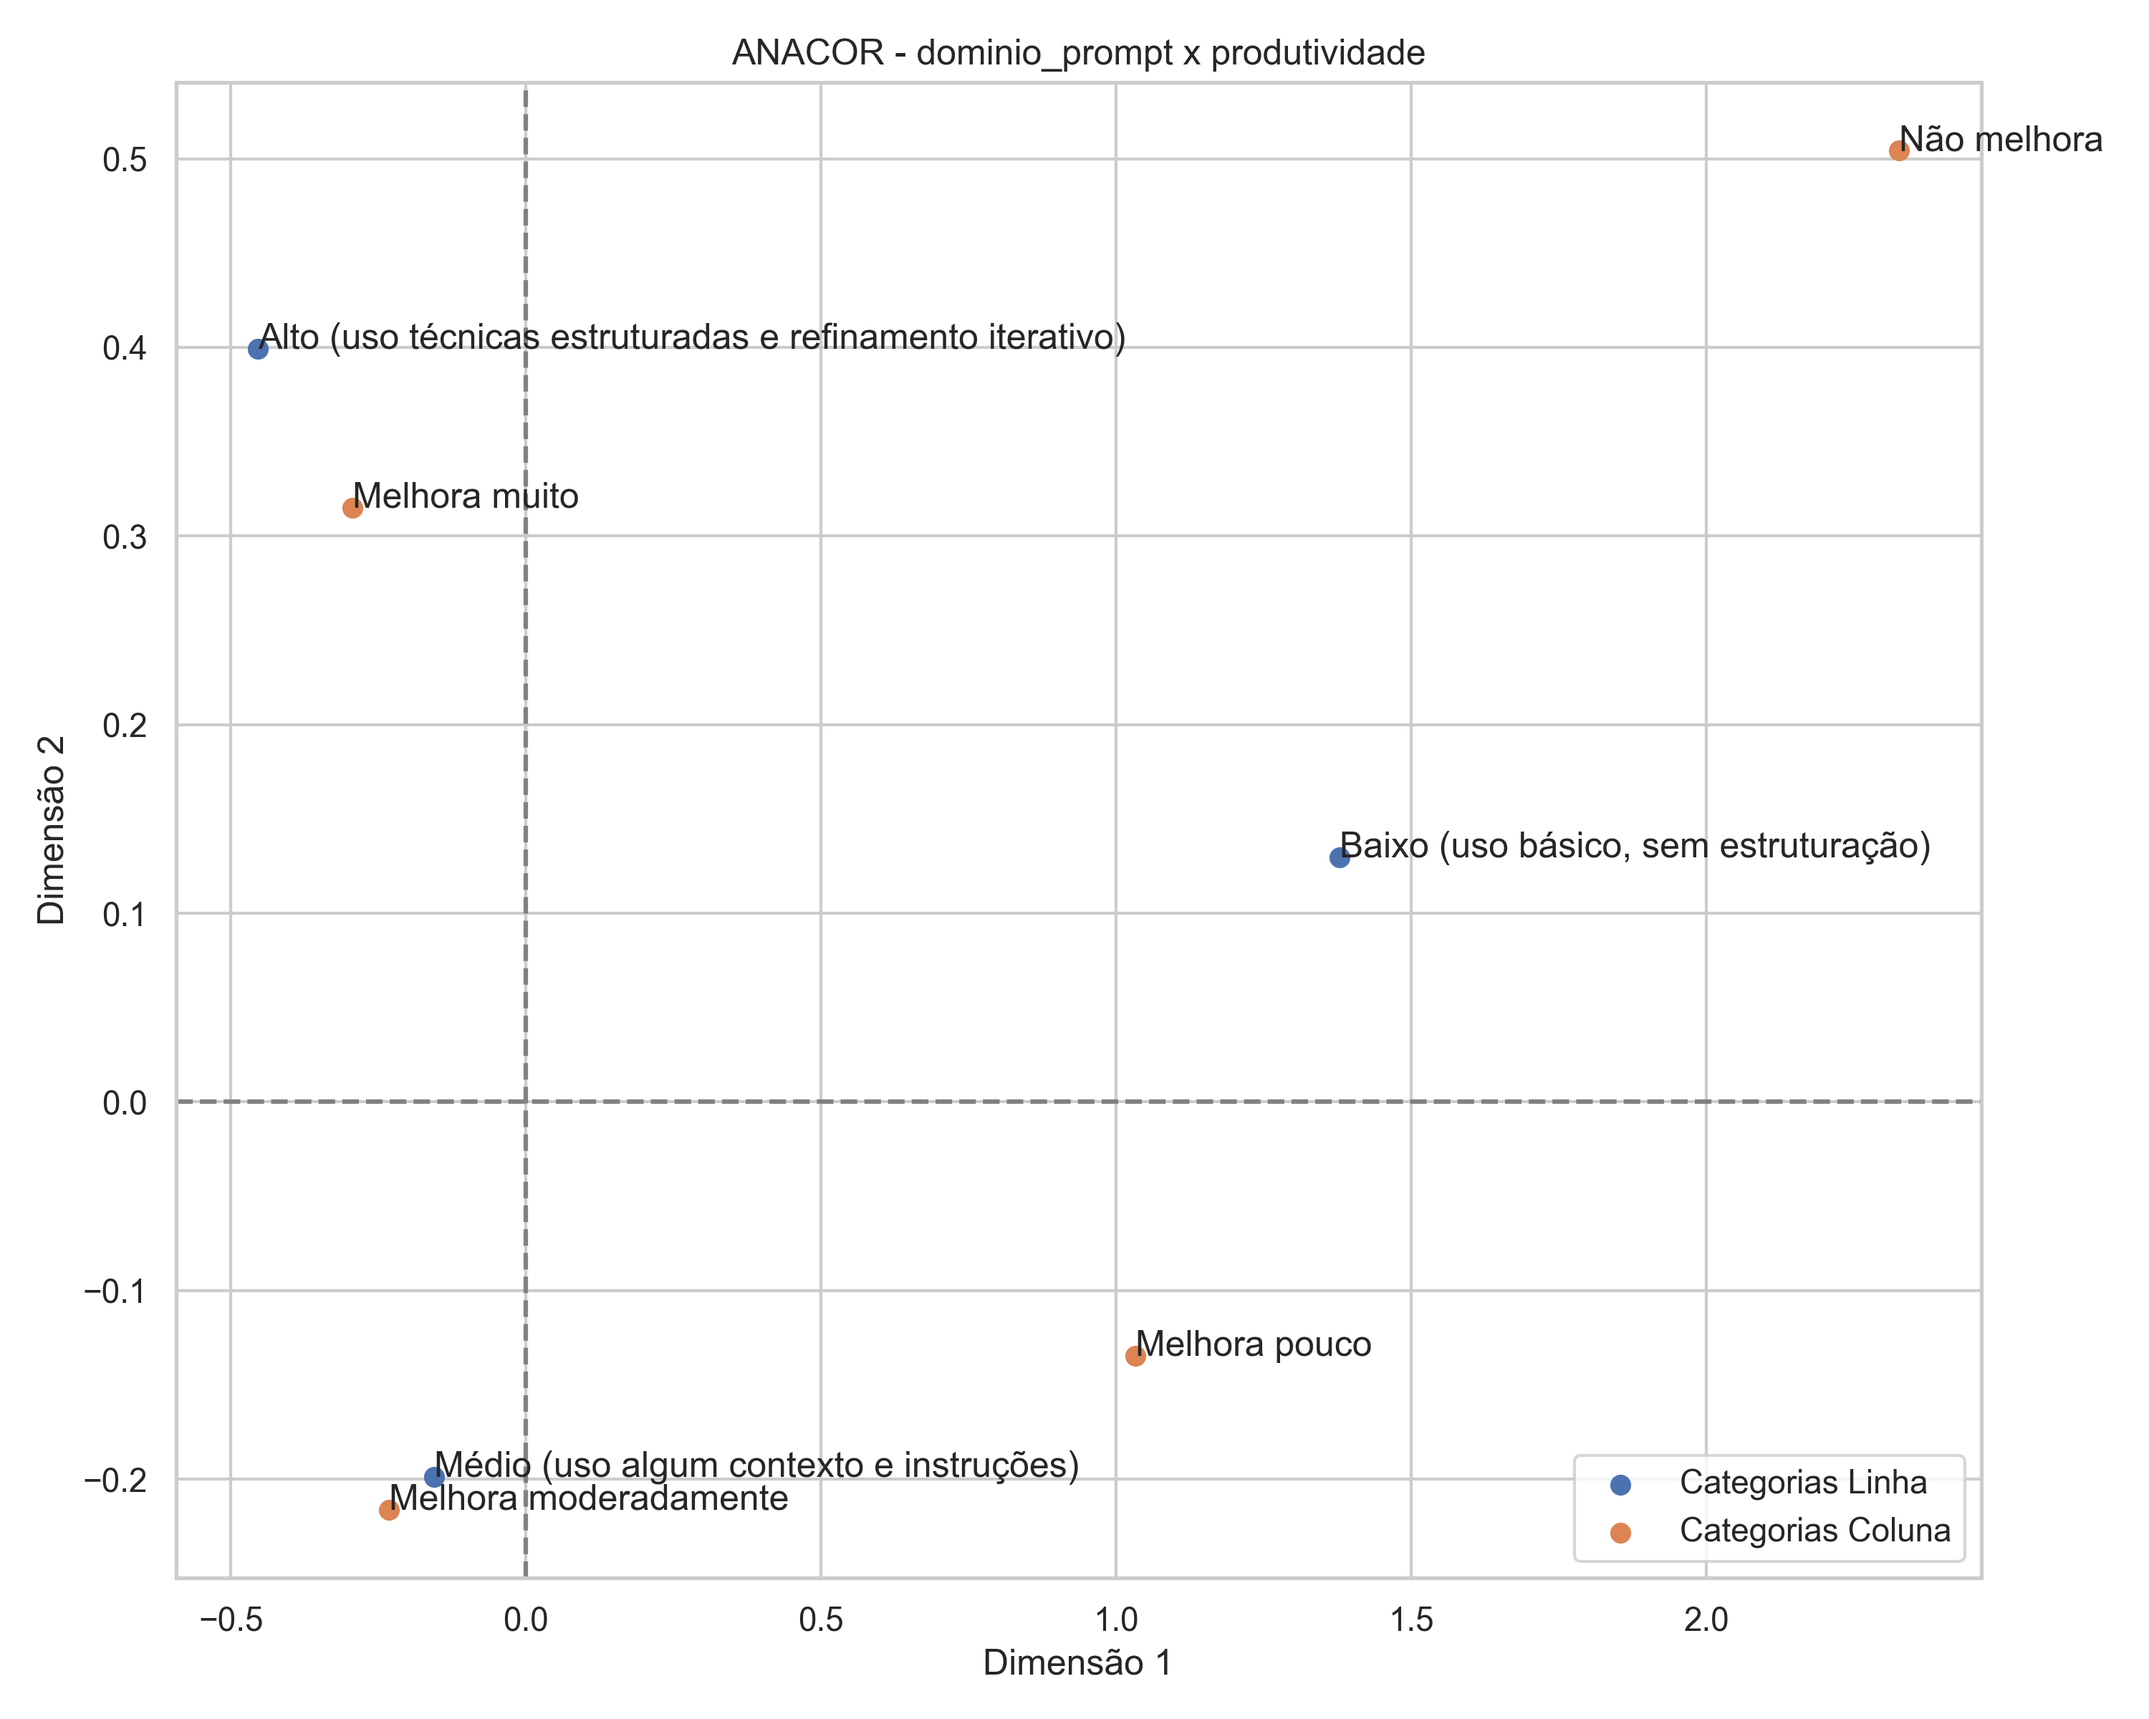
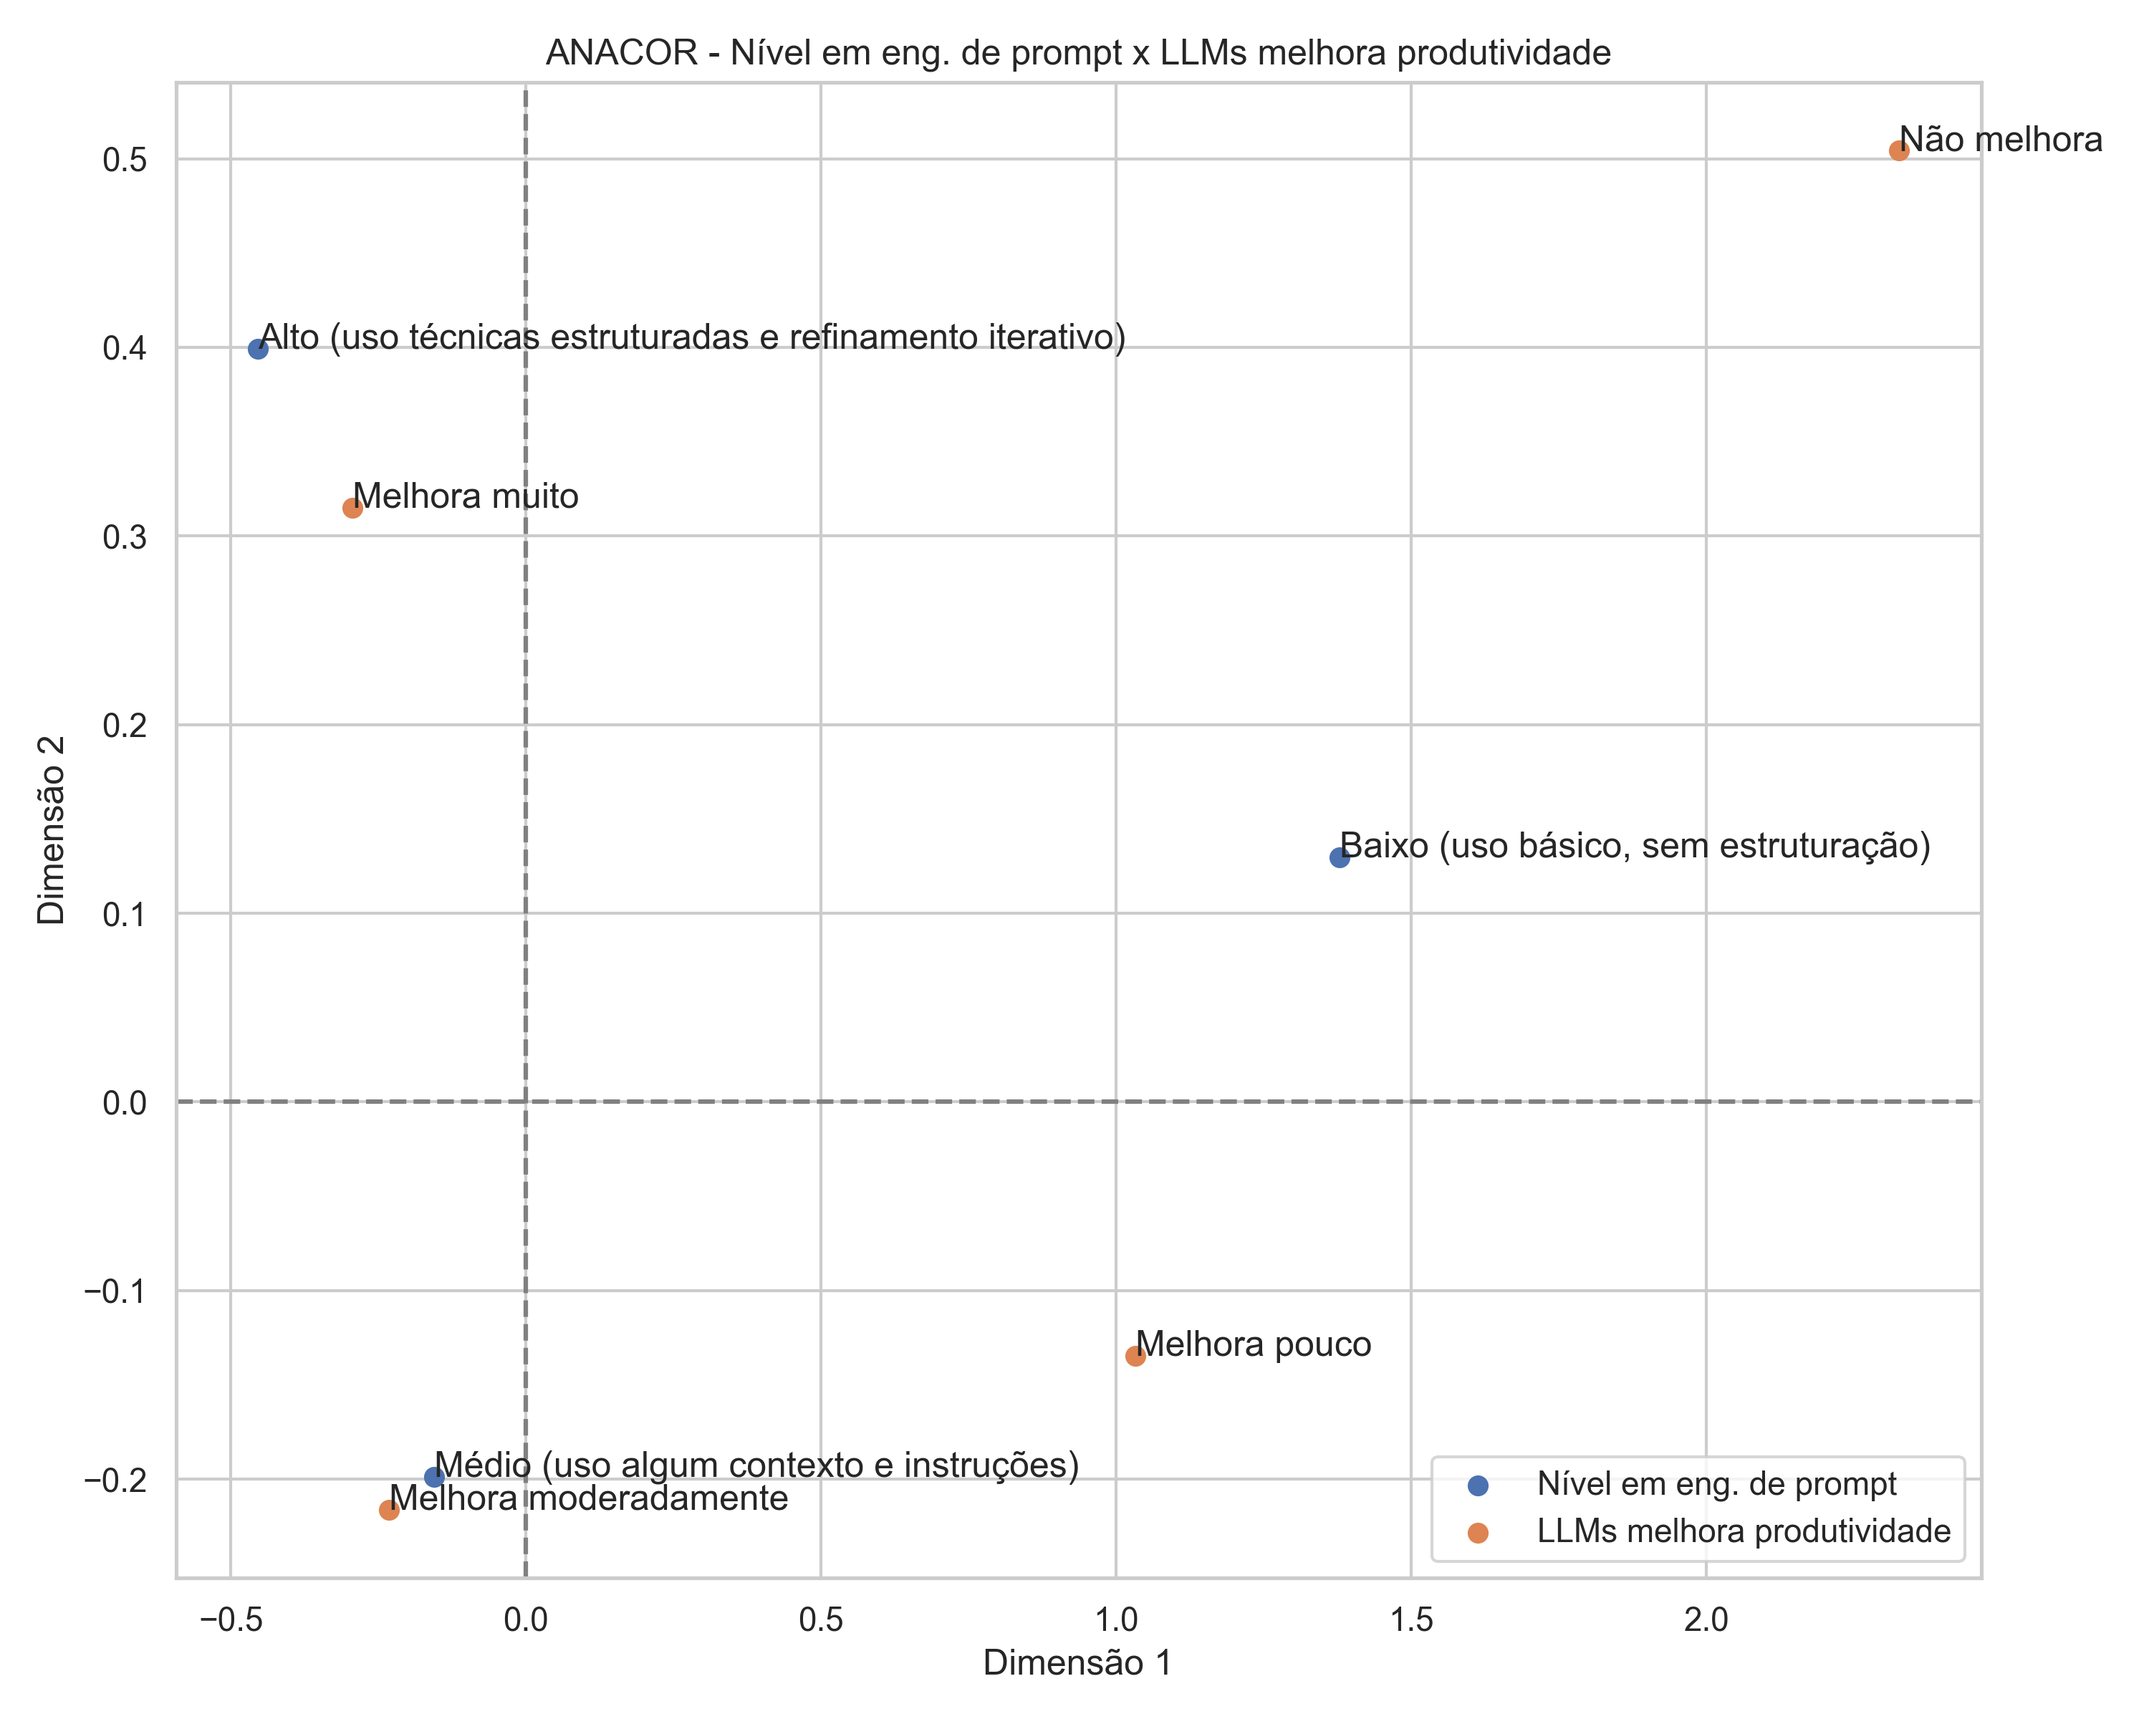
Adjusting legends on ANACOR graphs

diff --git a/analise.py b/analise.py
@@ -56,6 +56,24 @@ renomear = {
 
 df = df.rename(columns=renomear)
 
+# Nomes que serão usados nas legendas e títulos
+mapa_nomes_reversos = {
+    'area': 'Área de atuação',
+    'experiencia': 'Experiência profissional',
+    'freq_uso': 'Frequência do uso de LLMs',
+    'dominio_prompt': 'Nível em eng. de prompt',
+    'construcao_prompt': 'Como constrói seus prompts',
+    'uso_tecnicas': 'Frequência do uso de técnicas formais',
+    'qualidade': 'Qualidade respostas das LLMs',
+    'objetivo': 'Atendem ao objetivo',
+    'precisao': 'Precisão técnica das respostas',
+    'reformulacao': 'Reformular para obter resposta satisfatória',
+    'interacoes': 'Interações necessárias para resposta',
+    'facilidade': 'Facilidade de uso das LLMs',
+    'produtividade': 'LLMs melhora produtividade',
+    'esforco': 'Esforço necessário para boas respostas'
+}
+
 # =====================================================
 # SELEÇÃO DAS VARIÁVEIS IMPORTANTES
 # =====================================================
@@ -135,7 +153,9 @@ sns.heatmap(
     corr,
     annot=True,
     cmap='coolwarm',
-    fmt='.2f'
+    fmt='.2f',
+    xticklabels=titulos,  # Adicionado rótulos no eixo X
+    yticklabels=titulos   # Adicionado rótulos no eixo Y
 )
 
 plt.title('Mapa de Correlação Entre Variáveis')
@@ -206,16 +226,17 @@ def executar_anacor(var1, var2):
         print('ANACOR não possui duas dimensões suficientes.')
         return None
 
+    # Alterado o parâmetro label para refletir o nome real das variáveis analisadas
     plt.scatter(
         row_coords.iloc[:, 0],
         row_coords.iloc[:, 1],
-        label='Categorias Linha'
+        label=mapa_nomes_reversos.get(var1, var1)
     )
 
     plt.scatter(
         col_coords.iloc[:, 0],
         col_coords.iloc[:, 1],
-        label='Categorias Coluna'
+        label=mapa_nomes_reversos.get(var2, var2)
     )
 
     # Rótulos linhas
@@ -235,7 +256,7 @@ def executar_anacor(var1, var2):
     plt.axhline(0, color='gray', linestyle='--')
     plt.axvline(0, color='gray', linestyle='--')
 
-    plt.title(f'ANACOR - {var1} x {var2}')
+    plt.title(f'ANACOR - {mapa_nomes_reversos.get(var1, var1)} x {mapa_nomes_reversos.get(var2, var2)}')
     plt.xlabel('Dimensão 1')
     plt.ylabel('Dimensão 2')
     plt.legend()
